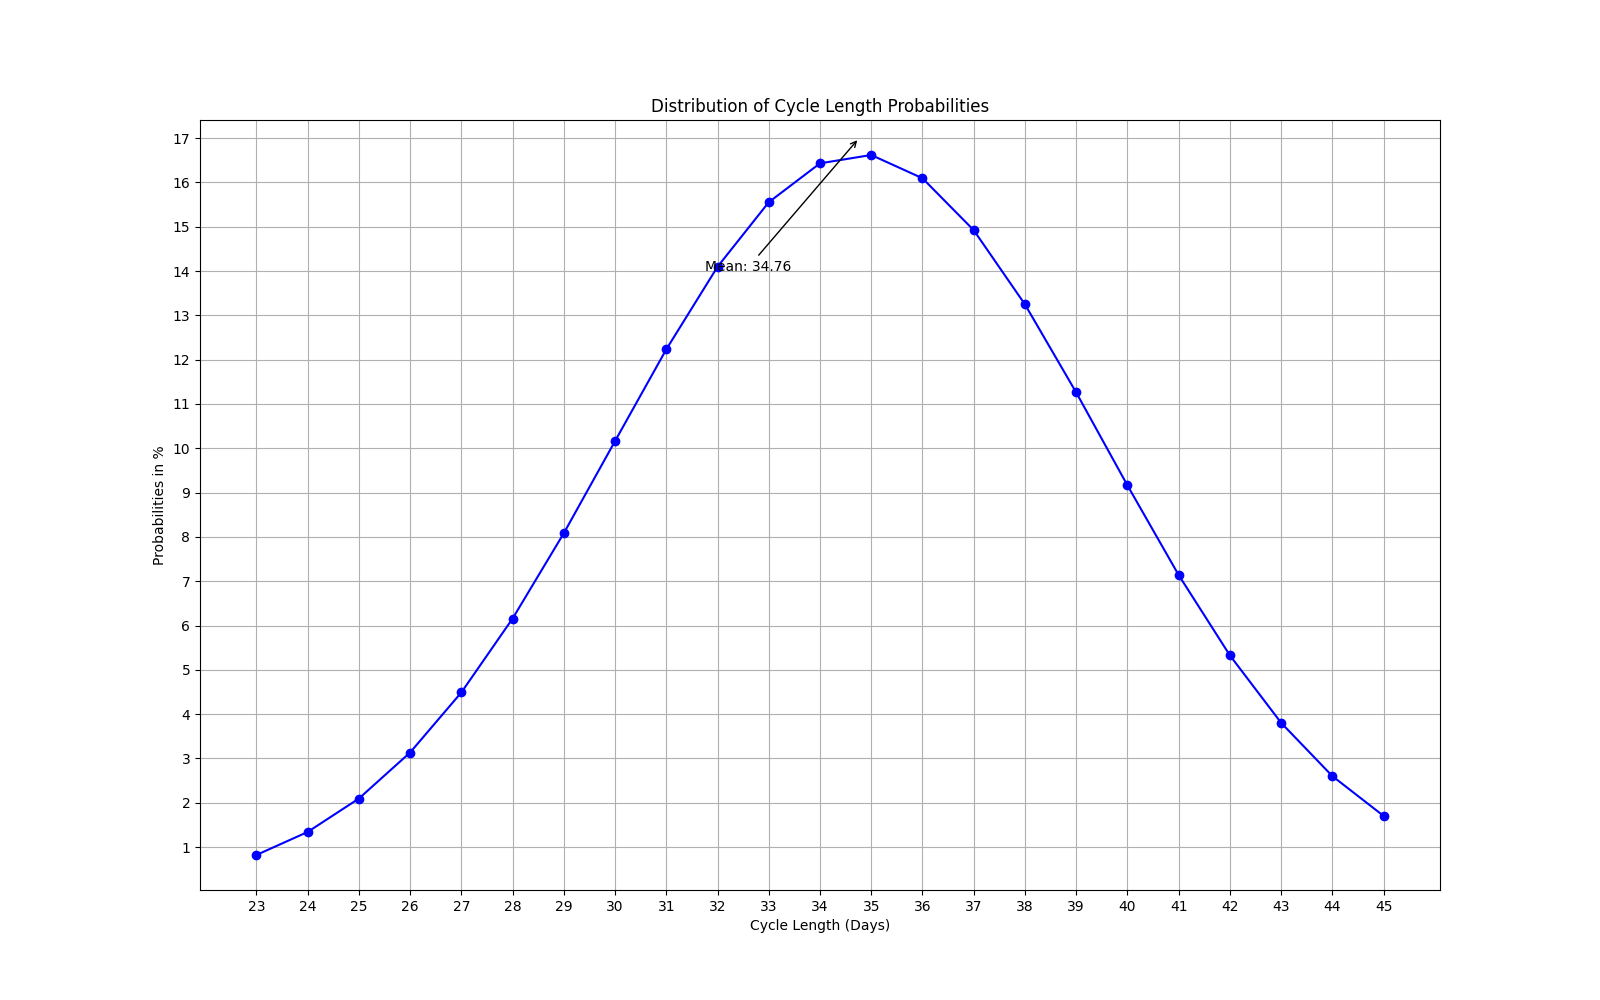
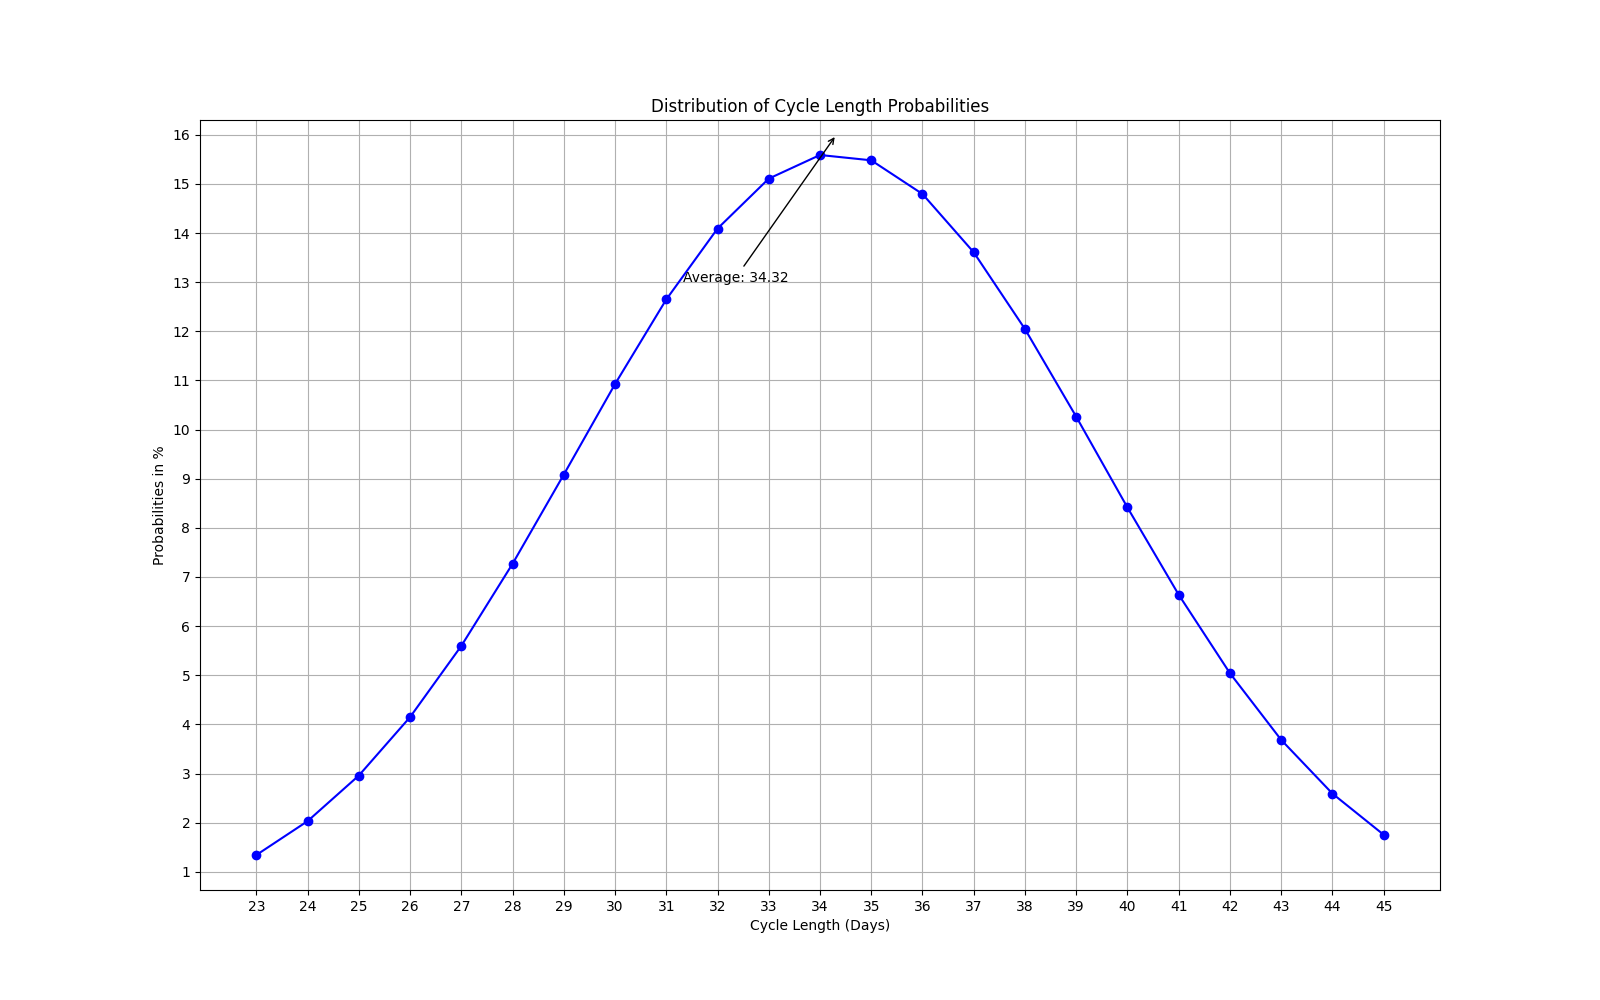
Push Oct data + add ovulation data

diff --git a/docs/cycle-tracker/cycle-tracker.html b/docs/cycle-tracker/cycle-tracker.html
@@ -8,10 +8,13 @@
 </head>
 <body>
     <div class="container">
-        <h1>Cycle Tracker Sep 2024</h1>
-        <h6>Last Cycle Lenght: 31</h6>
+        <h1>Cycle Tracker Oct 2024</h1>
+        <h6>Last Cycle Lenght: 25</h6>
         <img src="../images/graph.png" alt="Graph">
         <img src="../images/table.png" alt="Table">
+        <h6>Last Ovulation at Day: 11</h6>
+        <img src="../images/ovulation_graph.png" alt="Ovulation Graph">
+        <img src="../images/ovulation_table.png" alt="Ovulation Table">
     </div>
 </body>
 </html>

diff --git a/main.py b/main.py
@@ -3,26 +3,46 @@ import csv
 import scipy.stats as stats
 import matplotlib.pyplot as plt
 
-data = {}
+def generate_period_data():
+    print("Processing period data...")
 
-min = float("inf")
-max = float("-inf")
-
-n = 0
-sum = 0
-sd_sum = 0
-
-probabilities = {}
-
-if __name__ == "__main__":
-    print("starting generation of statistics...")
-
+    data = {}
     with open('data.csv', mode='r') as file:
         csv_reader = csv.reader(file)
         for row in csv_reader:
             key, value = int(row[0]), int(row[1])
             data[key] = value
+
+    values, probs, min_prob, max_prob, average, min, max, sd = process_data(data)
+
+    generate_graph(values, probs, "Distribution of Cycle Length Probabilities", "Cycle Length (Days)", "Probabilities in %", min_prob, max_prob, average, min, max, "./docs/images/graph.png")
+    generate_table(values, probs, average, sd, ["Cycle Length (Days)", "Probability in %", "Period will occur today in %"], "./docs/images/table.png")
+
+def generate_ovulation_data():
+    print("Processing ovulation data...")
+
+    data = {}
+    with open('ovulation_data.csv', mode='r') as file:
+        csv_reader = csv.reader(file)
+        for row in csv_reader:
+            key, value = int(row[0]), int(row[1])
+            data[key] = value
+
+    values, probs, min_prob, max_prob, average, min, max, sd = process_data(data)
+
+    generate_graph(values, probs, "Distribution of Ovulation Probabilities", "Ovulation on Day", "Probabilities in %", min_prob, max_prob, average, min, max, "./docs/images/ovulation_graph.png")
+    generate_table(values, probs, average, sd, ["Ovulation at Day", "Probability in %", "Ovulation will occur today in %"], "./docs/images/ovulation_table.png")
     
+def process_data(data):
+    min = float("inf")
+    max = float("-inf")
+
+    n = 0
+    sum = 0
+    sd_sum = 0
+
+    probabilities = {}
+
     for k in data.keys():
         n += data[k]
         sum += k * data[k]
@@ -33,14 +53,14 @@ if __name__ == "__main__":
         if k > max:
             max = k
 
-    mean = sum / n
+    average = sum / n
 
     for k in data.keys():
-        sd_sum += math.pow(k - mean, 2) * data[k]
+        sd_sum += math.pow(k - average, 2) * data[k]
 
     sd = math.sqrt(sd_sum / n)
 
-    print("Mean", mean)
+    print("Average", average)
     print("Sd", sd)
 
     c = min
@@ -49,8 +69,8 @@ if __name__ == "__main__":
         za = c-1
         zb = c+1
 
-        za = (za - mean) / sd
-        zb = (zb - mean) / sd
+        za = (za - average) / sd
+        zb = (zb - average) / sd
 
         prob = (stats.norm.cdf(zb) - stats.norm.cdf(za)) * 100
         probabilities[c] = prob
@@ -71,13 +91,16 @@ if __name__ == "__main__":
         if p < min_prob:
             min_prob = round(p)
 
+    return (values, probs, min_prob, max_prob, average, min, max, sd)
+
+def generate_graph(values, probs, title, x_label, y_label, min_prob, max_prob, average, min, max, path):
     fig, ax = plt.subplots()
     fig.set_size_inches(16, 10)
 
-    ax.set_title('Distribution of Cycle Length Probabilities')
+    ax.set_title(title)
     ax.plot(values, probs, marker='o', linestyle='-', color='b')
-    ax.set_xlabel('Cycle Length (Days)')
-    ax.set_ylabel('Probabilities in %')
+    ax.set_xlabel(x_label)
+    ax.set_ylabel(y_label)
 
     x = list(range(min, max+1))
     y = list(range(min_prob, max_prob+1))
@@ -88,17 +111,17 @@ if __name__ == "__main__":
     ax.set_yticks(y)
     ax.set_yticklabels([str(round(i, 2)) for i in y])
 
-    ax.annotate(f'Mean: {mean:.2f}', xy=(mean, max_prob), xytext=(mean - 3, max_prob - 3),
+    ax.annotate(f'Average: {average:.2f}', xy=(average, max_prob), xytext=(average - 3, max_prob - 3),
                 arrowprops=dict(facecolor='black', arrowstyle='->'))
 
     ax.grid(True)
 
-    plt.savefig("./docs/images/graph.png")
+    plt.savefig(path)
 
-    # Probs table
+def generate_table(values, probs, average, sd, col_labels, path):
     table_data = []
     for val, prob in zip(values, probs):
-        z = (val - mean) / sd
+        z = (val - average) / sd
         occur_today = stats.norm.cdf(z) * 100
         table_data.append([val, f'{prob:.2f}%', f"{occur_today:.2f}%"])
 
@@ -106,13 +129,13 @@ if __name__ == "__main__":
     fig2.set_size_inches(20, 24)
 
     ax2.axis('off')  # Turn off axis for the table plot
-    table_plot = ax2.table(cellText=table_data, colLabels=["Cycle Length (Days)", "Probability in %", "Period will occur today in %"], loc='center', cellLoc='center', bbox=[-0.1, -0.1, 1.15, 1.15])
+    table_plot = ax2.table(cellText=table_data, colLabels=col_labels, loc='center', cellLoc='center', bbox=[-0.1, -0.1, 1.15, 1.15])
     table_plot.auto_set_font_size(False)
     table_plot.set_fontsize(14)
-    plt.savefig('./docs/images/table.png')
-    
+    plt.savefig(path)
+
+if __name__ == "__main__":
+    generate_period_data()
+    generate_ovulation_data()
+
     plt.show()
-
-   
-
-    
